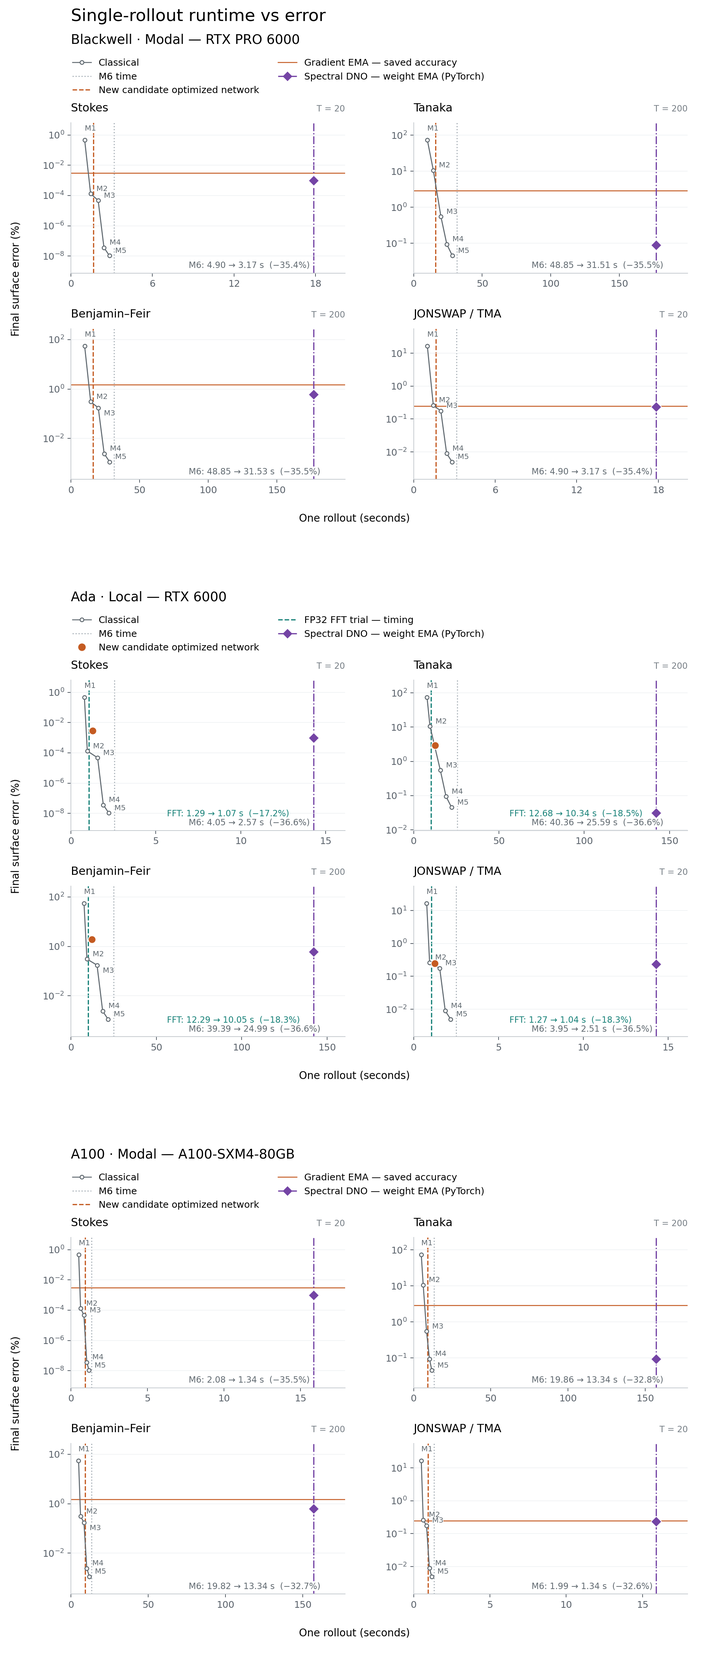
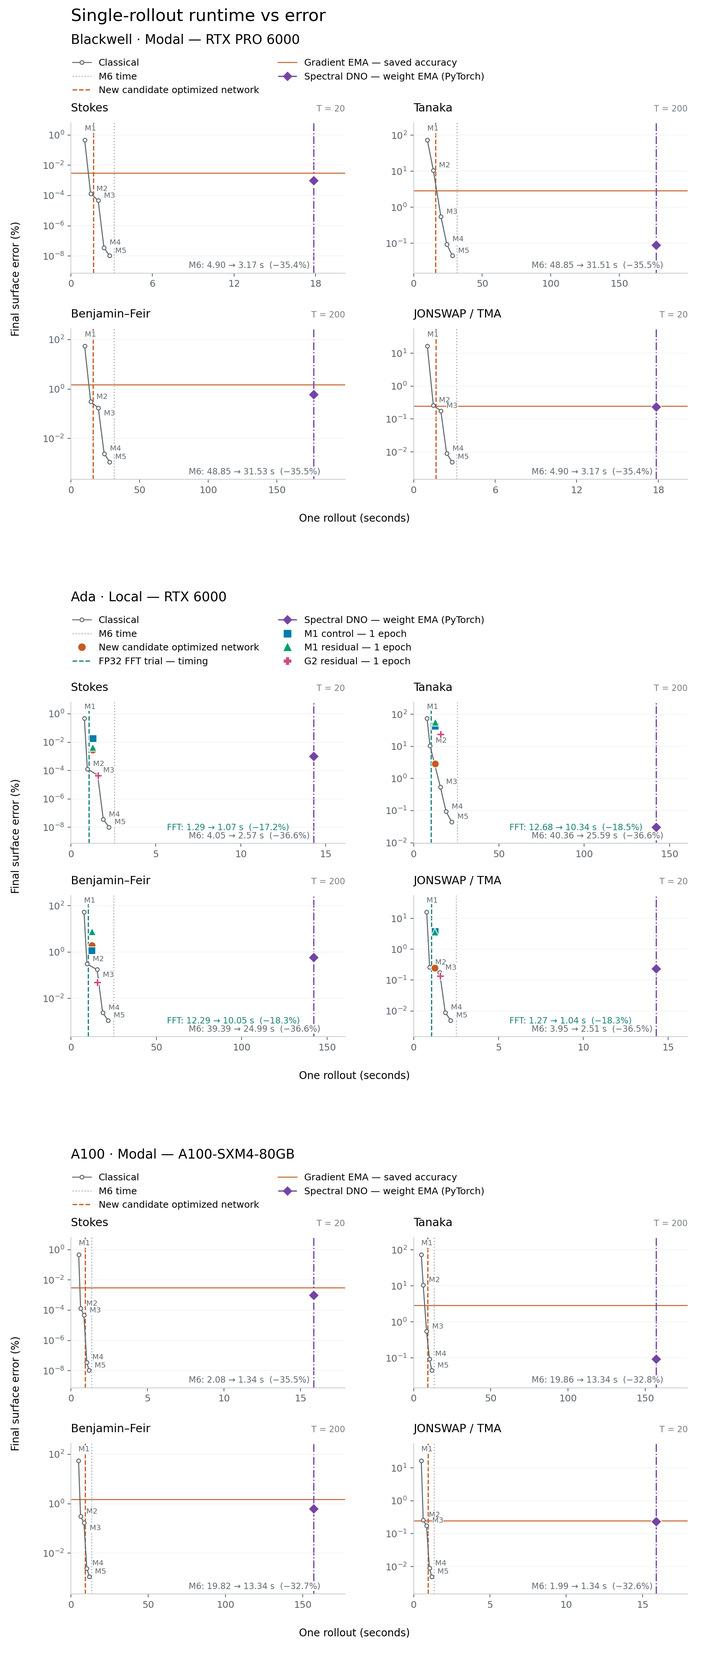
Measure scratch-model Ada rollouts and update Figure 12

diff --git a/scripts/benchmark_dno_fusion.py b/scripts/benchmark_dno_fusion.py
@@ -27,6 +27,7 @@ from jax.experimental.compute_on import compute_on  # noqa: E402
 from jax.stages import Wrapped  # noqa: E402
 
 from scripts.benchmark_cufftdx import fft, field_irfft, sandwich  # noqa: E402
+from scripts.benchmark_classical import classical_hat  # noqa: E402
 from scripts.benchmark_dno_dense import dense  # noqa: E402
 from solver.evals.model_rollout import LoadedRun, build_predict_gxi_batched, load_run  # noqa: E402
 from dno_net_v2 import CraigSulemBlock, CraigSulemDNO, DepthAwareMultiplier  # noqa: E402
@@ -124,7 +125,8 @@ def build_variant(
         filters = jnp.moveaxis(jnp.concatenate(cast(tuple[jax.Array, ...], cached), axis=-1), -1, 1)
         scales = jnp.asarray(loaded.stats["feature_absmax"], dtype=jnp.float32)
         output_scale = float(loaded.stats["target_absmax"]) / model.target_scale
-        h = jnp.exp(jnp.minimum(depth.astype(jnp.float32).reshape(-1, 1), jnp.log(model.h_clip_max)))
+        log_depth = depth.astype(jnp.float32).reshape(-1, 1)
+        h = jnp.exp(log_depth if model.baseline_true_depth else jnp.minimum(log_depth, jnp.log(model.h_clip_max)))
         g0 = k[None, :] * jnp.tanh(h * k[None, :])
         k64 = (2 * jnp.pi / model.domain_length) * jnp.arange(nx // 2 + 1, dtype=jnp.float64)
         g0_64 = k64[None, :] * jnp.tanh(h.astype(jnp.float64) * k64[None, :])
@@ -133,14 +135,28 @@ def build_variant(
             operators = operators.astype(jnp.complex64)
 
         @jax.jit
+        def m2_hat(inputs: jax.Array) -> jax.Array:
+            physical = jnp.stack((inputs[:, 0] * model.eta_scale, inputs[:, 1]), axis=1)
+            eta64_hat, xi64_hat = jnp.moveaxis(
+                fft(physical.astype(jnp.float64), nx, ept=16).at[..., -1].set(0), 1, 0,
+            )
+            return classical_hat(
+                eta64_hat, xi64_hat, k64, g0_64, nx=nx, order=2,
+                pad_factor=2, backend="specialized_cufftdx", precision="fp64", ept=16,
+            )
+
+        @jax.jit
         def forward_hat(eta_hat: jax.Array, xi_hat: jax.Array) -> jax.Array:
-            g1_hat = None
+            analytic_hat = None
             # Preserve the trained surface features' physical-space FP32 rounding.
             eta_norm = jnp.fft.irfft(eta_hat, n=nx).astype(jnp.float32) / scales[0]
             eta_norm_hat = jnp.fft.rfft(eta_norm)
             xi_phys_hat = (xi_hat.astype(jnp.complex64) / scales[1]) * model.xi_scale
             g1_xi_hat = xi_hat * (model.xi_scale / scales[1]).astype(jnp.float64)
             normalized_hat = normalized_inputs = None
+            if trial == "fourier" and model.baseline_order == 2:
+                xi_phys = (jnp.fft.irfft(xi_hat, n=nx).astype(jnp.float32) / scales[1]) * model.xi_scale
+                normalized_inputs = jnp.stack((eta_norm, xi_phys), axis=1)
             if trial != "fourier":
                 inputs = jnp.stack((eta_hat, xi_hat), axis=1)
                 if input_fp32:
@@ -165,14 +181,17 @@ def build_variant(
                                     ept=g1_input_ept, promote=fused_g1)
                 if overlap_g1:
                     with compute_on("gpu_stream:1"):
-                        g1_hat = jax.jit(lambda values: -sandwich(
-                            values[0][:, 0] if fused_g1 else (values[0][:, 0] * model.eta_scale).astype(g1_dtype),
-                            values[1] if reuse_g1 else fft(
-                                values[0][:, 1] if fused_g1 else values[0][:, 1].astype(g1_dtype), nx,
-                                ept=g1_input_ept, promote=fused_g1), operators,
-                            spectral=True, ept=sandwich_ept,
-                            eta_scale=model.eta_scale if fused_g1 else None,
-                        ).sum(axis=1))((normalized_inputs, xi_phys_hat) if reuse_g1 else (normalized_inputs,))
+                        if model.baseline_order == 2:
+                            analytic_hat = m2_hat(normalized_inputs)
+                        else:
+                            analytic_hat = jax.jit(lambda values: -sandwich(
+                                values[0][:, 0] if fused_g1 else (values[0][:, 0] * model.eta_scale).astype(g1_dtype),
+                                values[1] if reuse_g1 else fft(
+                                    values[0][:, 1] if fused_g1 else values[0][:, 1].astype(g1_dtype), nx,
+                                    ept=g1_input_ept, promote=fused_g1), operators,
+                                spectral=True, ept=sandwich_ept,
+                                eta_scale=model.eta_scale if fused_g1 else None,
+                            ).sum(axis=1))((normalized_inputs, xi_phys_hat) if reuse_g1 else (normalized_inputs,))
             if fused_features:
                 features, branch_fields = field_irfft(cast(jax.Array, normalized_hat), surface_ops, filters,
                                                        n=nx, ept=field_ept, normalized_inputs=normalized_inputs,
@@ -196,7 +215,7 @@ def build_variant(
                 branch_fields = fields[:, surface_ops.shape[0]:, :]
             for name in ("eta_feat_proj", "eta_feat_mix"):
                 features = nn.gelu(features @ loaded.params[name]["kernel"])
-            features = features * jnp.tanh(features)
+            features = features * jnp.tanh(features) ** (2 if model.baseline_order == 2 else 1)
             weights = features @ head_kernel
             if fused_product:
                 weighted_hat = fft(weights, nx, b=branch_fields, outer=filters, ept=fft_ept, channels_last=True)
@@ -207,14 +226,18 @@ def build_variant(
                 weighted_hat = filters * jnp.fft.rfft(jnp.moveaxis(weights, -1, 1) * branch_fields)
             correction_hat = jnp.sum(weighted_hat, axis=1) / (model.n_blocks * model.latent) ** 0.5
             if not overlap_g1:
-                g1_hat = -sandwich(
-                    eta_norm if fused_g1 else (eta_norm * model.eta_scale).astype(jnp.float64),
-                    g1_xi_hat, operators,
-                    spectral=True, ept=sandwich_ept, eta_scale=model.eta_scale if fused_g1 else None,
-                ).sum(axis=1)
-            if g1_fp32:
-                g1_hat = cast(jax.Array, g1_hat).astype(jnp.complex128)
-            result = output_scale * (g0 * xi_phys_hat + cast(jax.Array, g1_hat) + correction_hat)
+                if model.baseline_order == 2:
+                    analytic_hat = m2_hat(cast(jax.Array, normalized_inputs))
+                else:
+                    analytic_hat = -sandwich(
+                        eta_norm if fused_g1 else (eta_norm * model.eta_scale).astype(jnp.float64),
+                        g1_xi_hat, operators,
+                        spectral=True, ept=sandwich_ept, eta_scale=model.eta_scale if fused_g1 else None,
+                    ).sum(axis=1)
+            analytic_hat = cast(jax.Array, analytic_hat).astype(jnp.complex128)
+            if model.baseline_order != 2:
+                analytic_hat = g0 * xi_phys_hat + analytic_hat
+            result = output_scale * (analytic_hat + correction_hat)
             if mask_output:
                 return cast(jax.Array, jnp.where(k64 == 0, 0, jnp.where(k64 == k64[-1], result.real, result)))
             return result.at[..., 0].set(0).at[..., -1].set(result[..., -1].real)
@@ -240,7 +263,7 @@ def build_variant(
                 input_fields = (jnp.stack((inputs[..., 0], inputs[..., 1] * model.xi_scale), axis=1)
                                 if include_correction else (inputs[..., 1] * model.xi_scale)[:, None, :])
                 spectra = jnp.fft.rfft(input_fields)
-                h = jnp.exp(jnp.minimum(log_depth, jnp.log(model.h_clip_max)))
+                h = jnp.exp(log_depth if model.baseline_true_depth else jnp.minimum(log_depth, jnp.log(model.h_clip_max)))
                 base_k = (2 * jnp.pi / model.domain_length) * jnp.arange(nx // 2 + 1)
                 symbol = base_k[None, :] * jnp.tanh(h * base_k[None, :])
                 packed_hat = (symbol[:, None, :] * spectra[:, -1:, :])[:, :int(include_baselines), :]
@@ -276,7 +299,7 @@ def build_variant(
                 eta_norm, xi_norm, log_depth = call_args
                 eta_phys = (eta_norm * model.eta_scale).astype(jnp.float64)
                 xi_phys = (xi_norm * model.xi_scale).astype(jnp.float64)
-                h = jnp.exp(jnp.minimum(log_depth, jnp.log(model.h_clip_max))).astype(jnp.float64)
+                h = jnp.exp(log_depth if model.baseline_true_depth else jnp.minimum(log_depth, jnp.log(model.h_clip_max))).astype(jnp.float64)
                 k = (2 * jnp.pi / model.domain_length) * jnp.arange(nx // 2 + 1, dtype=jnp.float64)
                 symbol = k[None, :] * jnp.tanh(h * k[None, :])
                 if cufftdx_g1:

diff --git a/paper-plots/plot_neural_advantage.py b/paper-plots/plot_neural_advantage.py
@@ -22,6 +22,9 @@ ROOT = Path(__file__).resolve().parents[1]
 OUT = ROOT / "paper-plots/figures"
 FAMILIES = (("stokes", "Stokes"), ("tanaka", "Tanaka"),
             ("benjamin_feir", "Benjamin–Feir"), ("jonswap_tma", "JONSWAP / TMA"))
+SCRATCH_STYLES = (("control", "M1 control — 1 epoch", "#007da6", "s"),
+                  ("residual_m1", "M1 residual — 1 epoch", "#009e73", "^"),
+                  ("residual_g2", "G2 residual — 1 epoch", "#cc4c86", "P"))
 
 
 def draw_comparison(args: argparse.Namespace, fig: Figure | SubFigure, heading: str = "") -> None:
@@ -40,6 +43,13 @@ def draw_comparison(args: argparse.Namespace, fig: Figure | SubFigure, heading: 
     fp32_g1 = {"families": {}} if args.fp32_g1_timings else {}
     for path in args.fp32_g1_timings or ():
         fp32_g1["families"].update(json.loads(path.read_text())["families"])
+    scratch = {}
+    scratch_method = "fourier_fused_features_product_overlap_spectral_all_boundaries_stages_carry_local"
+    for path in args.scratch_timings or ():
+        result = json.loads(path.read_text())
+        run = Path(result["neural_runs"][scratch_method]).name.removeprefix("c27_scratch_lr2e5_").rsplit("_", 1)[0]
+        scratch.setdefault(run, {}).update({family: timing["methods"][scratch_method]
+                                           for family, timing in result["families"].items()})
     baseline_free = json.loads(args.no_baseline_timings.read_text()) if args.no_baseline_timings and not args.single_case else None
     spectral = {}
     for path in args.spectral_timings or ():
@@ -69,7 +79,8 @@ def draw_comparison(args: argparse.Namespace, fig: Figure | SubFigure, heading: 
     })
     axes = fig.subplots(2, 2)
     fig.subplots_adjust(left=0.10, right=0.97, bottom=0.14,
-                        top=0.78 if baseline_free or args.candidate_accuracy or fp32_g1 else 0.80, hspace=0.37, wspace=0.25)
+                        top=0.74 if scratch else 0.78 if baseline_free or args.candidate_accuracy or fp32_g1 else 0.80,
+                        hspace=0.37, wspace=0.25)
     for ax, (family, title) in zip(axes.flat, FAMILIES, strict=True):
         if args.single_case:
             timing = warm["families"][family]
@@ -148,6 +159,16 @@ def draw_comparison(args: argparse.Namespace, fig: Figure | SubFigure, heading: 
                         bbox={"facecolor": "white", "edgecolor": "none", "pad": 0.15})
             right = max(right, new_seconds)
             print(f"{title}, {label}: {new_seconds:.3f}s; finite={record['finite']}")
+        for run, label, color, marker in SCRATCH_STYLES:
+            if family not in scratch.get(run, {}):
+                continue
+            record = scratch[run][family]
+            scratch_seconds = float(np.median(record["seconds"]))
+            scratch_error = 100 * record["cached_reference_terminal_eta_error"]
+            ax.scatter(scratch_seconds, scratch_error, color=color, marker=marker,
+                       s=65, edgecolors="white", linewidths=0.8, zorder=4)
+            right = max(right, scratch_seconds)
+            print(f"{title}, {label}: {scratch_seconds:.3f}s; error={scratch_error:.6g}%; finite={record['finite']}")
         if family in spectral:
             record = spectral[family]
             spectral_seconds = float(np.median(record["seconds"]))
@@ -186,6 +207,8 @@ def draw_comparison(args: argparse.Namespace, fig: Figure | SubFigure, heading: 
         *([Line2D([], [], color="#7444a5", marker="D" if args.single_case else None, ls="-.", ms=6, lw=1.3,
                   label="Spectral DNO — weight EMA (PyTorch)" if args.single_case else
                   "Spectral DNO — weight EMA (runtime only)")] if spectral else []),
+        *[Line2D([], [], color=color, marker=marker, ls="none", ms=7, label=label)
+          for run, label, color, marker in SCRATCH_STYLES if run in scratch],
     ], loc="upper left", bbox_to_anchor=(0.09, 0.895 if args.single_case and not heading else 0.91),
         ncols=2 if candidate or baseline_free else 4, frameon=False, fontsize=10)
     xlabel = "Time per step (ms)" if per_step else "One rollout (seconds)" if warm else "32 rollouts together (seconds)"
@@ -200,6 +223,7 @@ if __name__ == "__main__":
     parser.add_argument("--classical-timings", type=Path, nargs="+", help="Replace classical runtimes with these full-rollout measurements.")
     parser.add_argument("--candidate-timings", type=Path, nargs="+", help="Overlay measured fused-model runtimes from these files; requires --timings.")
     parser.add_argument("--fp32-g1-timings", type=Path, nargs="+", help="Add an Ada-only combined FP32 FFT timing trial to --stack-hardware.")
+    parser.add_argument("--scratch-timings", type=Path, nargs="+", help="Add the three one-epoch scratch models to the Ada panels.")
     parser.add_argument("--candidate-method", default="fused")
     parser.add_argument("--candidate-previous-method", help="Show the runtime reduction against this method in the same timing files.")
     parser.add_argument("--no-baseline-timings", type=Path, help="Overlay speed-only full rollouts with model G0+G1 omitted.")
@@ -218,6 +242,8 @@ if __name__ == "__main__":
         parser.error("--spectral-timings requires --single-case or --stack-hardware")
     if args.fp32_g1_timings and not args.stack_hardware:
         parser.error("--fp32-g1-timings requires --stack-hardware")
+    if args.scratch_timings and not args.stack_hardware:
+        parser.error("--scratch-timings requires --stack-hardware")
     if args.stack_hardware:
         modal = argparse.Namespace(**vars(args))
         modal.single_case = True
@@ -242,6 +268,7 @@ if __name__ == "__main__":
             config.candidate_previous_method = None
             config.no_baseline_timings = None
             config.fp32_g1_timings = args.fp32_g1_timings if hardware == "ada" else None
+            config.scratch_timings = args.scratch_timings if hardware == "ada" else None
         fig = plt.figure(figsize=(10.5, 24.75))
         fig.suptitle("Single-rollout runtime vs error", y=0.995, fontsize=18, ha="left", x=0.10)
         blackwell, ada, ampere = fig.subfigures(3, 1)

diff --git a/scripts/time_single_rollouts.py b/scripts/time_single_rollouts.py
@@ -96,7 +96,7 @@ if __name__ == "__main__":
         for boundary in ("", "_boundaries") for stages in ("", "_stages")) + tuple(
         f"{method}_boundaries_stages{trial}" for method in METHODS if method.startswith(("M", "fourier_"))
         for trial in ("_carry", "_local", "_carry_local", "_carry_local_half")))
-    parser.add_argument("--reference", default="M6", help="Method used for numerical comparisons; must be included in --methods.")
+    parser.add_argument("--reference", default="M6", help="Method in --methods, or cached_M6 to use the saved reference trajectory.")
     parser.add_argument("--reference-once", action="store_true", help="Run the numerical reference once while repeating the timing candidates.")
     parser.add_argument("--without-baselines", action="store_true", help="Speed-only diagnostic: omit model G0+G1, leaving the integrator unchanged.")
     parser.add_argument("--output", type=Path, default=ROOT / "outputs/single_rollout_timing_20260923.json")
@@ -107,8 +107,8 @@ if __name__ == "__main__":
         RUNS["compact"] = args.candidate_run.resolve()
     methods = args.methods or ["M6", "M1", "M2", "M3", "M4", "M5", *reversed(RUNS)]
     base_methods = set(map(method_base, methods))
-    if args.reference not in methods or (base_methods & {"compact", *FUSION_VARIANTS} and not args.candidate_run):
-        parser.error("methods must include the reference; candidate methods require --candidate-run")
+    if (args.reference != "cached_M6" and args.reference not in methods) or (base_methods & {"compact", *FUSION_VARIANTS} and not args.candidate_run):
+        parser.error("methods must include the reference unless cached_M6; candidate methods require --candidate-run")
     if args.without_baselines and any(method.startswith("M") for method in methods):
         parser.error("--without-baselines applies only to neural methods")
     if args.without_baselines and (base_methods & {"baseline-only", "shared_m1_spectral_all"}
@@ -259,7 +259,8 @@ if __name__ == "__main__":
                 continue
             for key in ("eta", "xi", "gxi"):
                 actual = np.asarray(result[key])
-                reference = np.asarray(outputs[args.reference][key])
+                reference = (saved_reference[key] if args.reference == "cached_M6"
+                             else np.asarray(outputs[args.reference][key]))
                 error = np.linalg.norm((actual - reference).reshape(frames, -1), axis=-1)
                 scale = np.linalg.norm(reference.reshape(frames, -1), axis=-1)
                 records[method][f"terminal_{key}_error"] = float(error[-1] / scale[-1])

diff --git a/experiments/experiments-2026-09-29.md b/experiments/experiments-2026-09-29.md
@@ -15,3 +15,5 @@
 | 2026-09-29 | 02:02 | Completed budget-aware LR2e-5 scratch control | Establish a meaningful one-epoch reference before testing residual normalization; the old scratch recipe used a fine-tuning LR and120-epoch schedule. | c27_scratch_lr2e5_control_20260929 completed. Ordinary validation relative L2 .000867674 versus .002345033 for low-LR all-family control. Median/p95 terminal eta errors%(S/T/BF/JON): .0705867/3.95264,1.556119/21.69987,1.794698/7.00413,1.122981/7.12621; old medians .668917/6.625278/40.303835/3.379163. Per-family mean own-baseline ratios .535263/.177359/.044307/.859797; strict baseline win fractions84.44/99.83/100/66.37%. Stokes phase improves29/32 cases, paired median ratio.112566; aligned shape25/32,.526889. | Fresh seed0, exactly one epoch;128/128 finite same-case rollouts. This changes peak LR and schedule length together, with true-depth analytic evaluation consistently enabled for the new batch. Floored baseline ratios are distinct from strict win fractions. | Training01:51–01:56 (296.323s); rollouts01:56–02:00. Residual-M1 training began02:01. | Retain as new control. Much stronger one-epoch learning than LR5e-7; do not infer converged performance or attribute the entire change to LR alone. Continue the two queued normalization trials. |
 | 2026-09-29 | 02:11 | Completed own-baseline residual-normalized M1 screen | Relative error against the missing analytic correction may improve families underrepresented by target-relative data fitting. | c27_scratch_lr2e5_residual_m1_20260929: ordinary validation L2 .000920184; mean residual-normalized data loss .273828. Terminal eta median/p95%(S/T/BF/JON): .0170421/.925790,4.41287/62.55247,1.58527/7.01252,.956477/7.68497. Paired wins versus new control27/13/18/22 of32, median paired error ratios .251496/1.320912/.863448/.811349. Stokes phase improves27/32, ratio.252207; aligned shape26/32, ratio.248549. Validation baseline win fractions99.995/99.684/100/83.639%; mean floored residual ratios .154580/.253317/.039900/.647526. | Fresh seed0, exactly one epoch, same LR2e-5 schedule and128 cases; all128 rollouts finite. Only data normalization differs from new control. Physics coefficients remain fixed, but their scale relative to the data term is reduced. | Training02:01–02:06 (294.622s); rollouts02:06–02:10. Exact-G2 residual trial started02:10. | Clear Stokes phase/profile gain and smaller BF/JON median gains, but substantial Tanaka median/tail degradation. Not an across-family replacement. Finish the separately queued exact-G2 screen before choosing the next recipe. |
 | 2026-09-29 | 02:23 | Completed residual-normalized exact-G2 scratch screen and queue | Testing a meaningful scratch LR and own-baseline denominator may let the cubic learned correction improve on M2 rather than damage it, as the low-LR screen did. | c27_scratch_lr2e5_residual_g2_20260929: ordinary validation relative L2 .000404170; residual data loss .416114. Terminal eta median/p95%(S/T/BF/JON): .000302639/.04153085,.2321360/6.342527,.05308175/.4015387,.02800991/1.594182. Wins versus new neural control32/30/32/32 of32. Versus classical M2, wins22/16/32/16, median paired ratios .485865/.995678/.174381/.997302; M2 medians .000470039/.189258/.402603/.0191720%. BF also beats M3 in32/32, paired ratio.309166 (M3 median.226740%). G2 Stokes phase improves32/32 versus neural control, paired ratio.007166; aligned shape32/32,.018359. Validation strict own-M2 win fractions98.259/96.868/100/67.348%, with mean floored error ratios .410089/.408909/.085791/.759668. | Fresh seed0, exactly one epoch atLR2e-5, same128 M6-reference cases; all128 finite. Allthree screens total384/384finite. Same own-baseline architecture and loss checks passed before launch; comparison with classical M2 uses the existing same-case cached order sweep, not a new inference-speed benchmark. One-step metrics retain all modes; rollout band restriction differs and remains a possible training mismatch. | Training02:10–02:16 (361.092s); rollouts02:16–02:22. Fullthree-screen queue01:51–02:22, then stopped. | Most promising of this batch. Clear Stokes/BF improvement over M2 and strong gains versus neural control, but Tanaka/JON do not clearly beat M2 (JON p951.594% versusM2 .436%). Keep budget-aware scratch LR/schedule default. Next isolated candidates are matching training/rollout spectral bands, eta/h under this recipe, and seed repeats; no further runs launched. |
+| 2026-09-29 | 02:37 | Single-rollout Ada timing and Figure12 overlays for three scratch models | Newly trained models need measured runtime/error points, especially exact G2 whose baseline and cubic correction differ from the existing M1 inference path. | Extended benchmark-only optimized spectral path to honor actual analytic depth, cubic lift and FP64 M2 recurrence (specialized cuFFTDx, pad2/EPT16); retains cached depth multipliers, packed branches, fused products and analytic/network stream overlap. Added cached_M6 reference option to existing full-rollout driver. Launched two local jobs at02:35: GPU0 Stokes/Tanaka, GPU1 JON/BF, each sequentially timing control/residual-M1/residual-G2 with three warm full-rollout repeats, batch1,N1024,dt.01,fourGL2iterations,T20/T200. Same four Figure12 cases; new accuracy comes from each measured optimized trajectory, not32-case medians. | All48 saved-state forward checks finite, including12deep states: maxrelative optimized/native discrepancy2.58e-7 forM1 and5.36e-8 forG2. Zero-headG2 median discrepancy4.83e-14,max5.36e-8; arbitrary full-spectrum pad2 versuspad8 algebra agrees within1e-12. These are numerical comparisons, not bitwise equivalence. Native FFT library reused without modifying unrelated dirty kernels. Ruff/Pyright pass. | Launched02:35; full timings pending. BothAdasidlebeforelaunch. | Complete measured Ada overlays for three scratch models while retaining prior epoch120 and allcloud results. No newtraining, cloudjobs, or estimated runtimes. Pad2 preserves projected products for the normalized FP32 inputs' full spectra. |
+| 2026-09-29 | 02:43 | Completed scratch-model Ada timings and Figure12 refresh | Actual full-rollout measurements establish the runtime cost of the stronger G2 baseline alongside the one-epoch accuracy results. | Three-repeat median seconds (Stokes/Tanaka/BF/JON): control1.30630/12.59860/12.36875/1.27849, residual-M1 1.28900/12.67366/12.34388/1.25908, residual-G2 1.61752/15.85809/15.52116/1.57891. Corresponding measured single-case terminal eta errors%: control .0184526/42.7683/1.15740/3.73728; residual-M1 .00431526/57.3669/7.56800/3.67524; residual-G2 .0000442660/23.8337/.0483165/.134329. Figure12 PNG/PDF now includes all three measured Ada points; previous epoch120, transformer, FP32 trial and cloud results retained. README includes timings and regeneration command. | All12 records have three positive full timings, correct T20/200 and2000/20000steps,251savedframes, finite outputs and positive minimum depth. Same-case native rollout comparisons confirm the large Tanaka errors are genuine, not family medians or mismatched references. G2 relative changes in terminal-error magnitude versus native are -.1143/-.000528/-.000592/-.000078%; largest M1 change is residual-M1 Stokes +4.47% (.004315% versus.004131%). Plot uses optimized trajectory errors directly. Ruff/Pyright and scoped diff checks pass; rendered figure inspected. | Benchmarks02:35–02:39; plotting/checks02:41–02:43. Both GPUs idle and timing sessions finished. | KEEP benchmark G2 support and measured overlays. G2 costs about1–3% more than existing M3 timings, so no speed win over M3 is claimed. No training or cloud work launched; unrelated dirty kernels left untouched. |

diff --git a/paper-plots/README.md b/paper-plots/README.md
@@ -204,6 +204,25 @@ epoch-120 accuracy from the saved local evaluation. No cloud checkpoint timing
 is newly measured or paired with those accuracy references. The old small/full
 neural references are removed. All panels use single-case errors, including Ada.
 
+The Ada panels also show three one-epoch, from-scratch experiments at LR `2e-5`:
+`M1 control`, `M1 residual`, and `G2 residual`. Their points pair median warm
+single-rollout times with final surface errors from those same measured
+trajectories. The residual models normalize the data loss by the remaining
+analytic-baseline error; the G2 model includes the exact FP64 quadratic term
+using the same projected recurrence with 2× padding. Measurements are stored
+in `outputs/scratch_timing_20260929/{control,residual_m1,residual_g2}/gpu{0,1}.json`.
+The existing epoch-120 point and the Blackwell/A100 results are retained.
+Median warm seconds (three full repeats per case):
+
+| Model | Stokes | Tanaka | Benjamin–Feir | JONSWAP/TMA |
+| --- | ---: | ---: | ---: | ---: |
+| M1 control | 1.306 | 12.599 | 12.369 | 1.278 |
+| M1 residual | 1.289 | 12.674 | 12.344 | 1.259 |
+| G2 residual | 1.618 | 15.858 | 15.521 | 1.579 |
+
+The G2 model is slightly slower than the existing M3 measurements
+(1.573, 15.685, 15.296, 1.539 seconds in the same family order).
+
 Purple lines show the trained spectral transformer's epoch-4 weight-EMA checkpoint.
 Diamonds give that single case's final surface error on each GPU. The separate full current-test suite
 is saved under `outputs/torch_ema_20260926/evaluation/` (128/128 finite).
@@ -368,6 +387,9 @@ UV_CACHE_DIR=/tmp/codex-uv-cache uv run --no-sync paper-plots/plot_neural_advant
   --candidate-timings outputs/ema_grad_timing_20260928/ada/timings.json \
   --fp32-g1-timings outputs/g1_fp32_tuning_20260928/ada/gpu0.json \
     outputs/g1_fp32_tuning_20260928/ada/gpu1.json \
+  --scratch-timings outputs/scratch_timing_20260929/control/gpu{0,1}.json \
+    outputs/scratch_timing_20260929/residual_m1/gpu{0,1}.json \
+    outputs/scratch_timing_20260929/residual_g2/gpu{0,1}.json \
   --spectral-timings outputs/torch_ema_20260926/blackwell_timing/timings.json \
     outputs/torch_ema_20260926/a100_80gb_timing/timings.json \
     outputs/torch_ema_20260926/ada_timing/timings.json

diff --git a/EXPERIMENTS.md b/EXPERIMENTS.md
@@ -33,11 +33,11 @@ could not be recovered at all are in
 
 ## Dated logs
 
-81 files, 1176 rows.
+81 files, 1178 rows.
 
 | Date | Rows | File | Size |
 | --- | --- | --- | --- |
-| 2026-09-29 | 15 | [`experiments/experiments-2026-09-29.md`](experiments/experiments-2026-09-29.md) | 21 KB |
+| 2026-09-29 | 17 | [`experiments/experiments-2026-09-29.md`](experiments/experiments-2026-09-29.md) | 25 KB |
 | 2026-09-28 | 33 | [`experiments/experiments-2026-09-28.md`](experiments/experiments-2026-09-28.md) | 64 KB |
 | 2026-09-27 | 29 | [`experiments/experiments-2026-09-27.md`](experiments/experiments-2026-09-27.md) | 52 KB |
 | 2026-09-26 | 19 | [`experiments/experiments-2026-09-26.md`](experiments/experiments-2026-09-26.md) | 30 KB |
